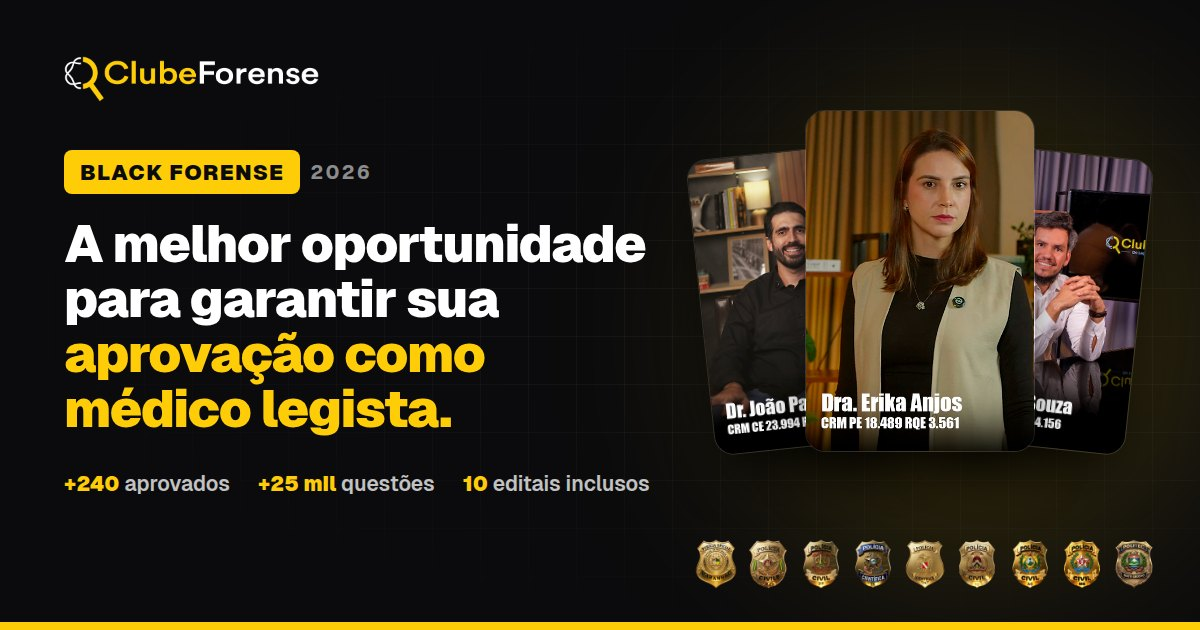
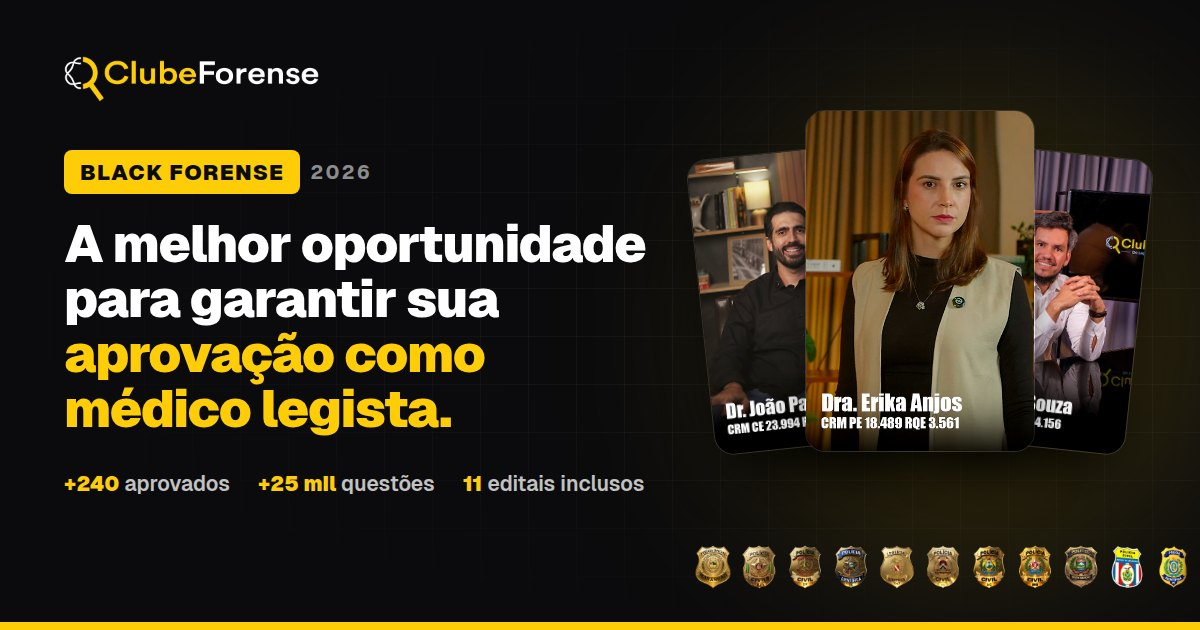
Black: Pernambuco de volta à oferta e distintivos da PC-AM e da PCI-PE
Claude-Session: https://claude.ai/code/session_01Y9TFsAutNQw4KSdTxmhhQq

Changed region(s): [[0.555, 0.8444, 1.0, 0.9349], [0.37, 0.754, 0.555, 0.7841]]

diff --git a/app/black/oferta.ts b/app/black/oferta.ts
@@ -113,6 +113,7 @@ export const EDITAIS_DA_BLACK: {
   { uf: "AC", sigla: "PC-AC", orgao: "Polícia Civil do Acre", banca: "Idecan" },
   { uf: "MG", sigla: "PC-MG", orgao: "Polícia Civil de Minas Gerais" },
   { uf: "AM", sigla: "PC-AM", orgao: "Polícia Civil do Amazonas" },
+  { uf: "PE", sigla: "PCI-PE", orgao: "Polícia Científica de Pernambuco" },
   {
     uf: "MT",
     sigla: "POLITEC-MT",

diff --git a/app/black/CarrosselEditais.tsx b/app/black/CarrosselEditais.tsx
@@ -108,12 +108,14 @@ export interface EditalDaFaixa {
  */
 const COM_DISTINTIVO = new Set([
   "AC",
+  "AM",
   "DF",
   "ES",
   "MA",
   "MG",
   "MT",
   "PA",
+  "PE",
   "RJ",
   "TO",
 ]);
